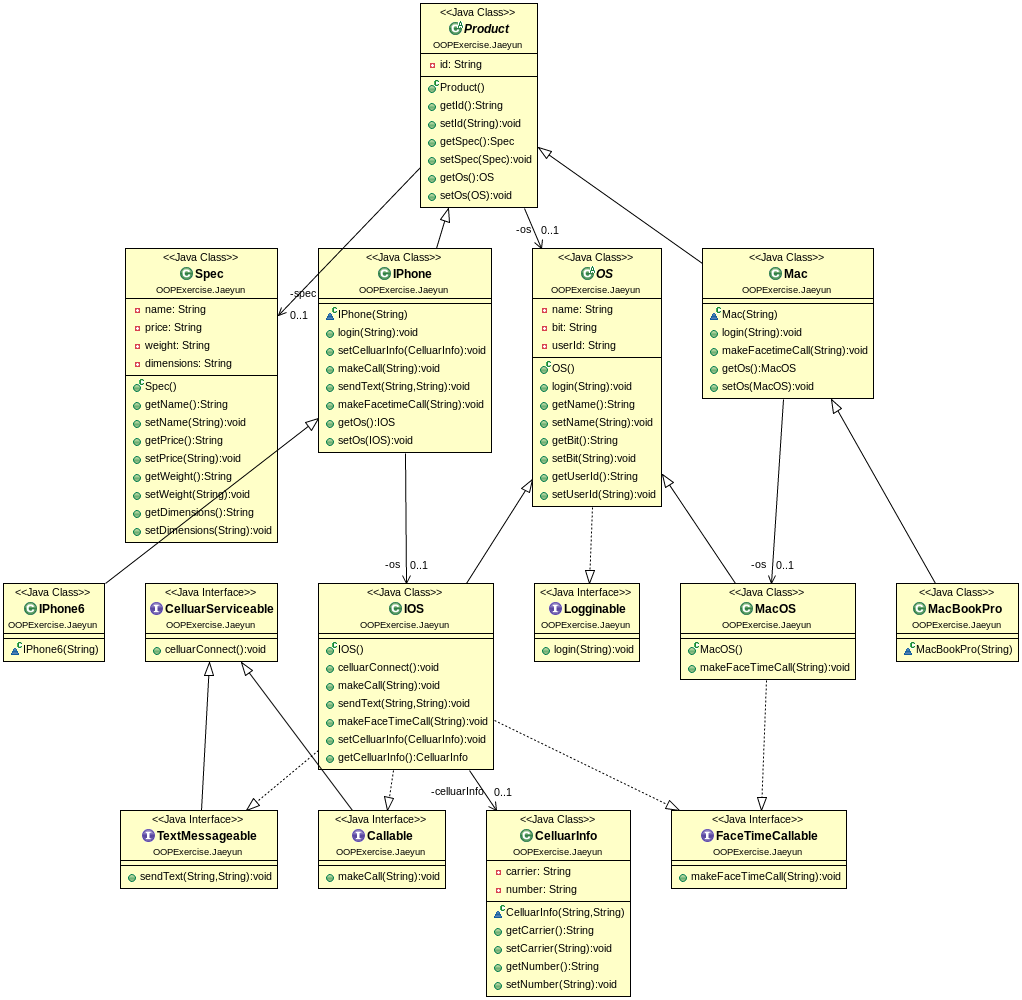
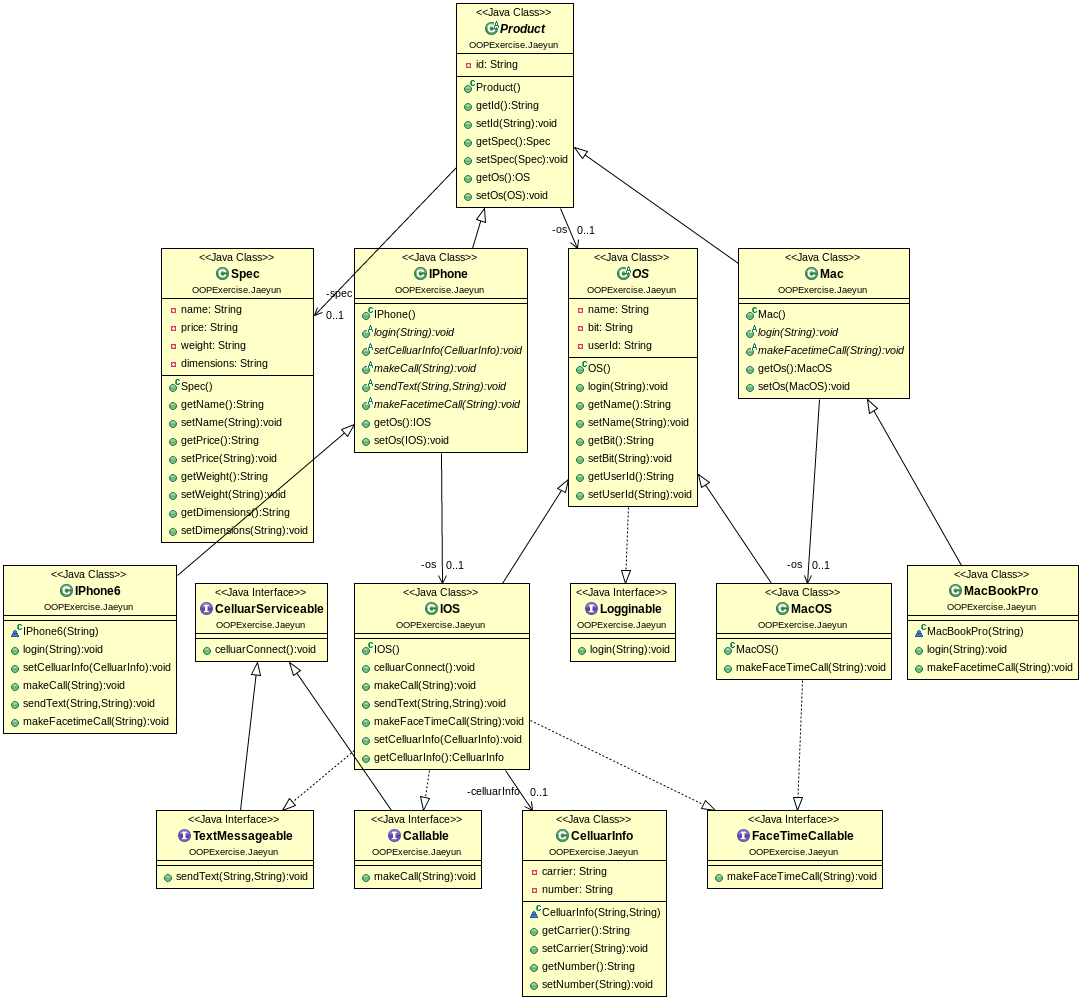
수정

diff --git a/src/OOPExercise/Jaeyun/IPhone.java b/src/OOPExercise/Jaeyun/IPhone.java
@@ -1,33 +1,18 @@
 package OOPExercise.Jaeyun;
 
-public class IPhone extends Product {
+public abstract class IPhone extends Product {
 	
 	private IOS os;
+	
+	public abstract void login (String userId);
 
-	IPhone(String id) {
-		this.setId(id);
-		this.setOs(new IOS());
-	}
+	public abstract void setCelluarInfo(CelluarInfo celluarInfo);
 	
-	public void login (String userId) {
-		this.os.login(userId);
-	}
-
-	public void setCelluarInfo(CelluarInfo celluarInfo) {
-		this.os.setCelluarInfo(celluarInfo);
-	}
+	public abstract void makeCall(String phoneNumber);
 	
-	public void makeCall(String phoneNumber) {
-		this.os.makeCall(phoneNumber);
-	}
+	public abstract void sendText(String phoneNumber, String message);
 	
-	public void sendText(String phoneNumber, String message) {
-		this.os.sendText(phoneNumber, message);
-	}
-	
-	public void makeFacetimeCall(String userId) {
-		this.os.makeFaceTimeCall(userId);
-	}
+	public abstract void makeFacetimeCall(String userId);
 	
 	// getter, setter
 

diff --git a/src/OOPExercise/Jaeyun/IPhone6.java b/src/OOPExercise/Jaeyun/IPhone6.java
@@ -3,6 +3,27 @@ package OOPExercise.Jaeyun;
 public class IPhone6 extends IPhone {
 
 	IPhone6(String id) {
-		super(id);
+		this.setId(id);
+		this.setOs(new IOS());
+	}
+	
+	public void login (String userId) {
+		this.getOs().login(userId);
+	}
+
+	public void setCelluarInfo(CelluarInfo celluarInfo) {
+		this.getOs().setCelluarInfo(celluarInfo);
+	}
+	
+	public void makeCall(String phoneNumber) {
+		this.getOs().makeCall(phoneNumber);
+	}
+	
+	public void sendText(String phoneNumber, String message) {
+		this.getOs().sendText(phoneNumber, message);
+	}
+	
+	public void makeFacetimeCall(String userId) {
+		this.getOs().makeFaceTimeCall(userId);
 	}
 }

diff --git a/src/OOPExercise/Jaeyun/Mac.java b/src/OOPExercise/Jaeyun/Mac.java
@@ -1,21 +1,12 @@
 package OOPExercise.Jaeyun;
 
-public class Mac extends Product {
+public abstract class Mac extends Product {
 
 	private MacOS os;
-
-	Mac(String id) {
-		this.setId(id);
-		this.setOs(new MacOS());
-	}
 	
-	public void login (String userId) {
-		this.os.login(userId);
-	}
+	public abstract void login (String userId);
 	
-	public void makeFacetimeCall(String userId) {
-		this.os.makeFaceTimeCall(userId);
-	}
+	public abstract void makeFacetimeCall(String userId);
 	
 	// getter, setter
 

diff --git a/src/OOPExercise/Jaeyun/MacBookPro.java b/src/OOPExercise/Jaeyun/MacBookPro.java
@@ -3,7 +3,16 @@ package OOPExercise.Jaeyun;
 public class MacBookPro extends Mac {
 
 	MacBookPro(String id) {
-		super(id);
+		this.setId(id);
+		this.setOs(new MacOS());
+	}
+	
+	public void login (String userId) {
+		this.getOs().login(userId);
+	}
+	
+	public void makeFacetimeCall(String userId) {
+		this.getOs().makeFaceTimeCall(userId);
 	}
 
 }
